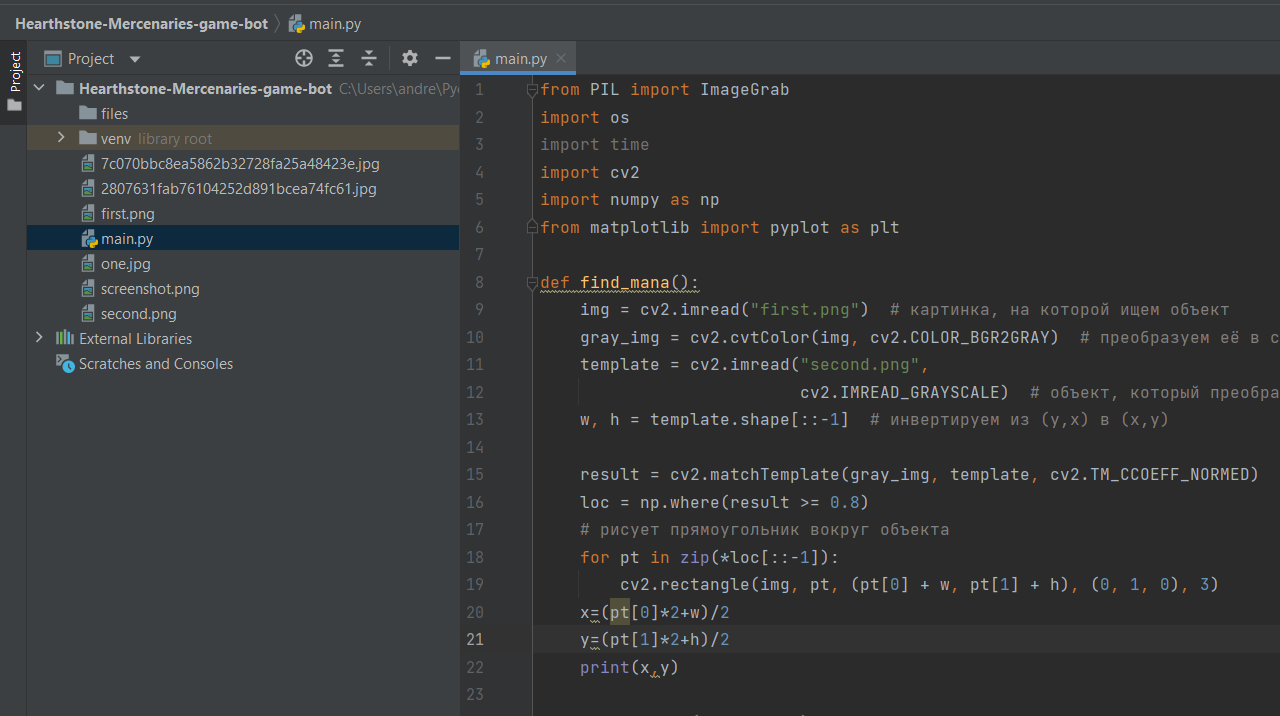
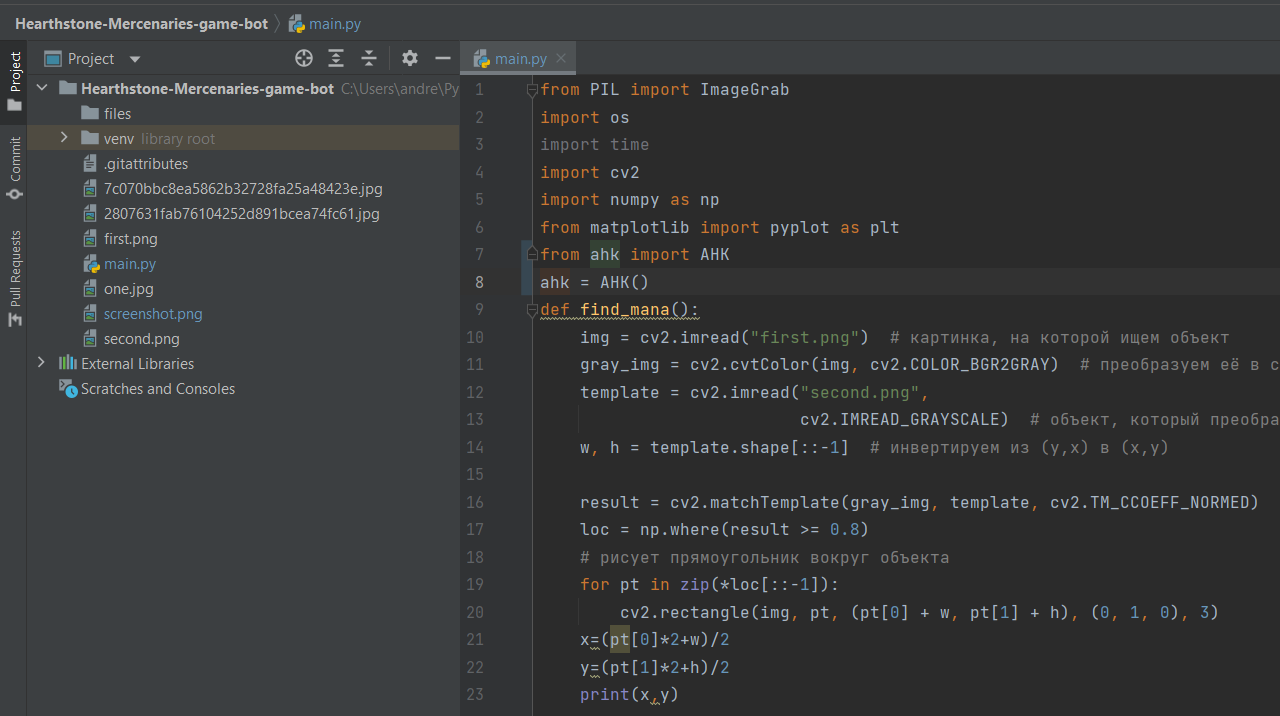
ahk Add

diff --git a/main.py b/main.py
@@ -4,15 +4,8 @@ import time
 import cv2
 import numpy as np
 from matplotlib import pyplot as plt
-import win32gui
-
-hwnd = win32gui.FindWindow("notepad", None)
-rect = win32gui.GetWindowRect(hwnd)
-w = rect[2] - rect[0]
-h = rect[3] - rect[1]
-print("Window %s:" % win32gui.GetWindowText(hwnd))
-print("\t    Size: (%d, %d)" % (w, h))
-
+from ahk import AHK
+ahk = AHK()
 def find_mana():
     img = cv2.imread("first.png")  # картинка, на которой ищем объект
     gray_img = cv2.cvtColor(img, cv2.COLOR_BGR2GRAY)  # преобразуем её в серуюш
@@ -37,6 +30,7 @@ def find_mana():
     plt.show()
 
 def main():
+
     # делает скриншот игры, закоментируйте, если понадобится, так как скриншот я выложил снизу, как и сам объект
     gameWindow = (0, 31, 1280, 747)
     im = ImageGrab.grab(gameWindow)
